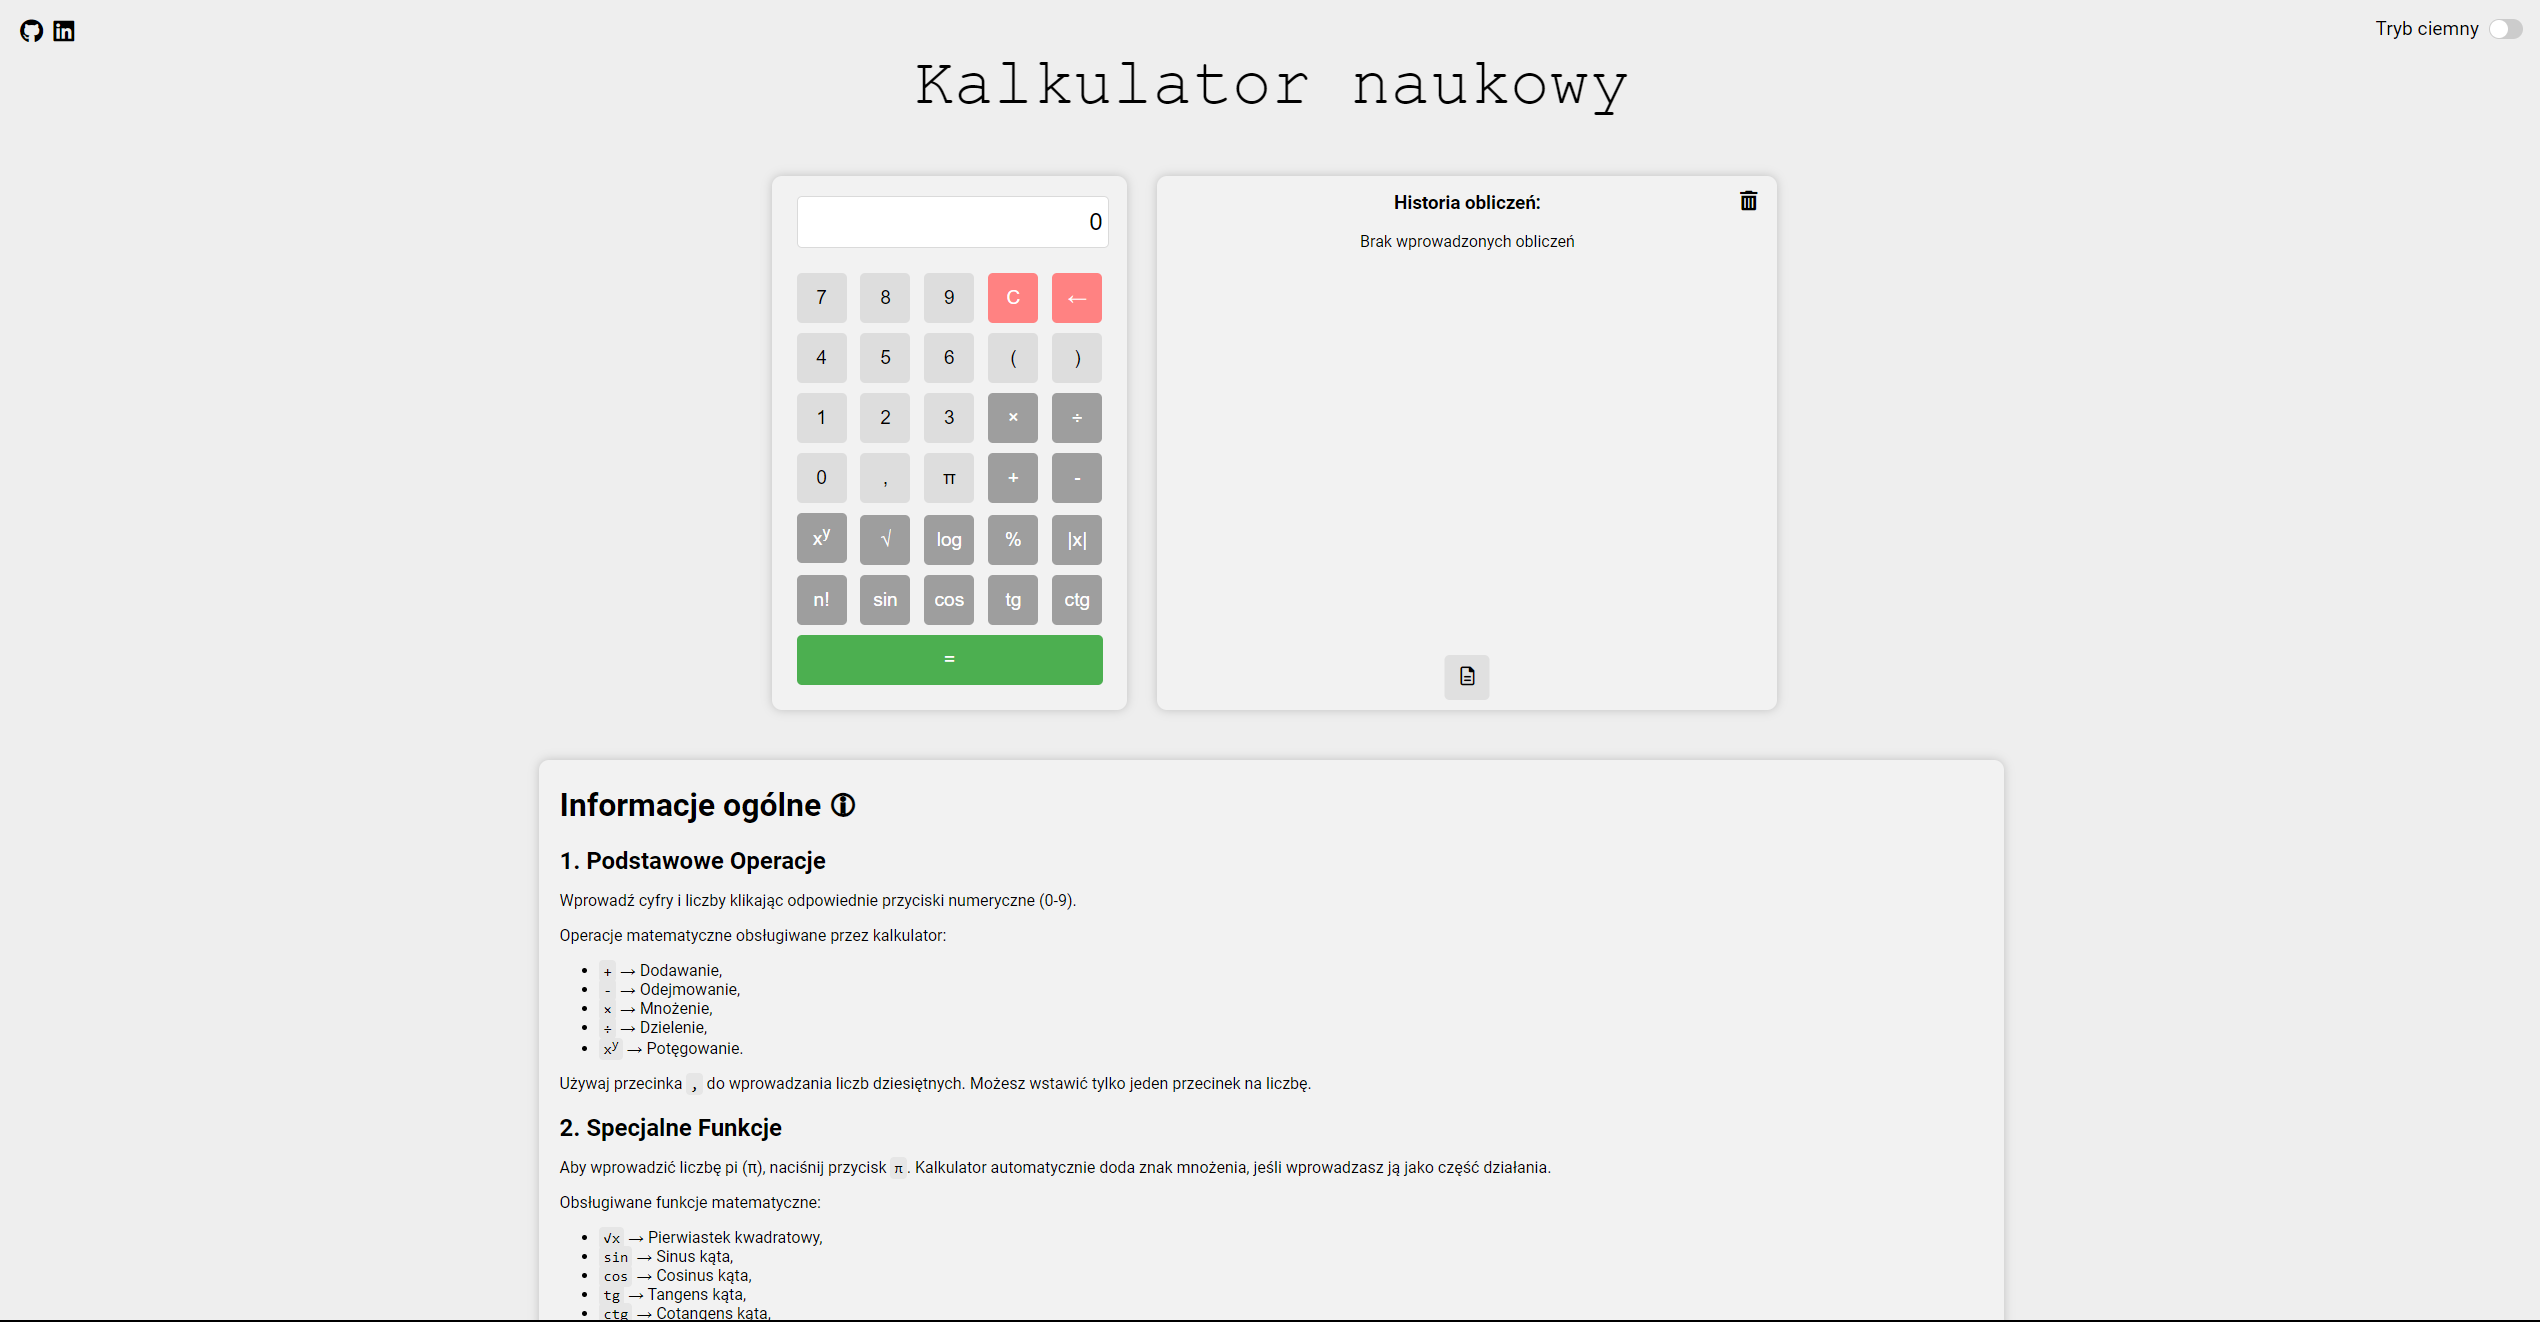
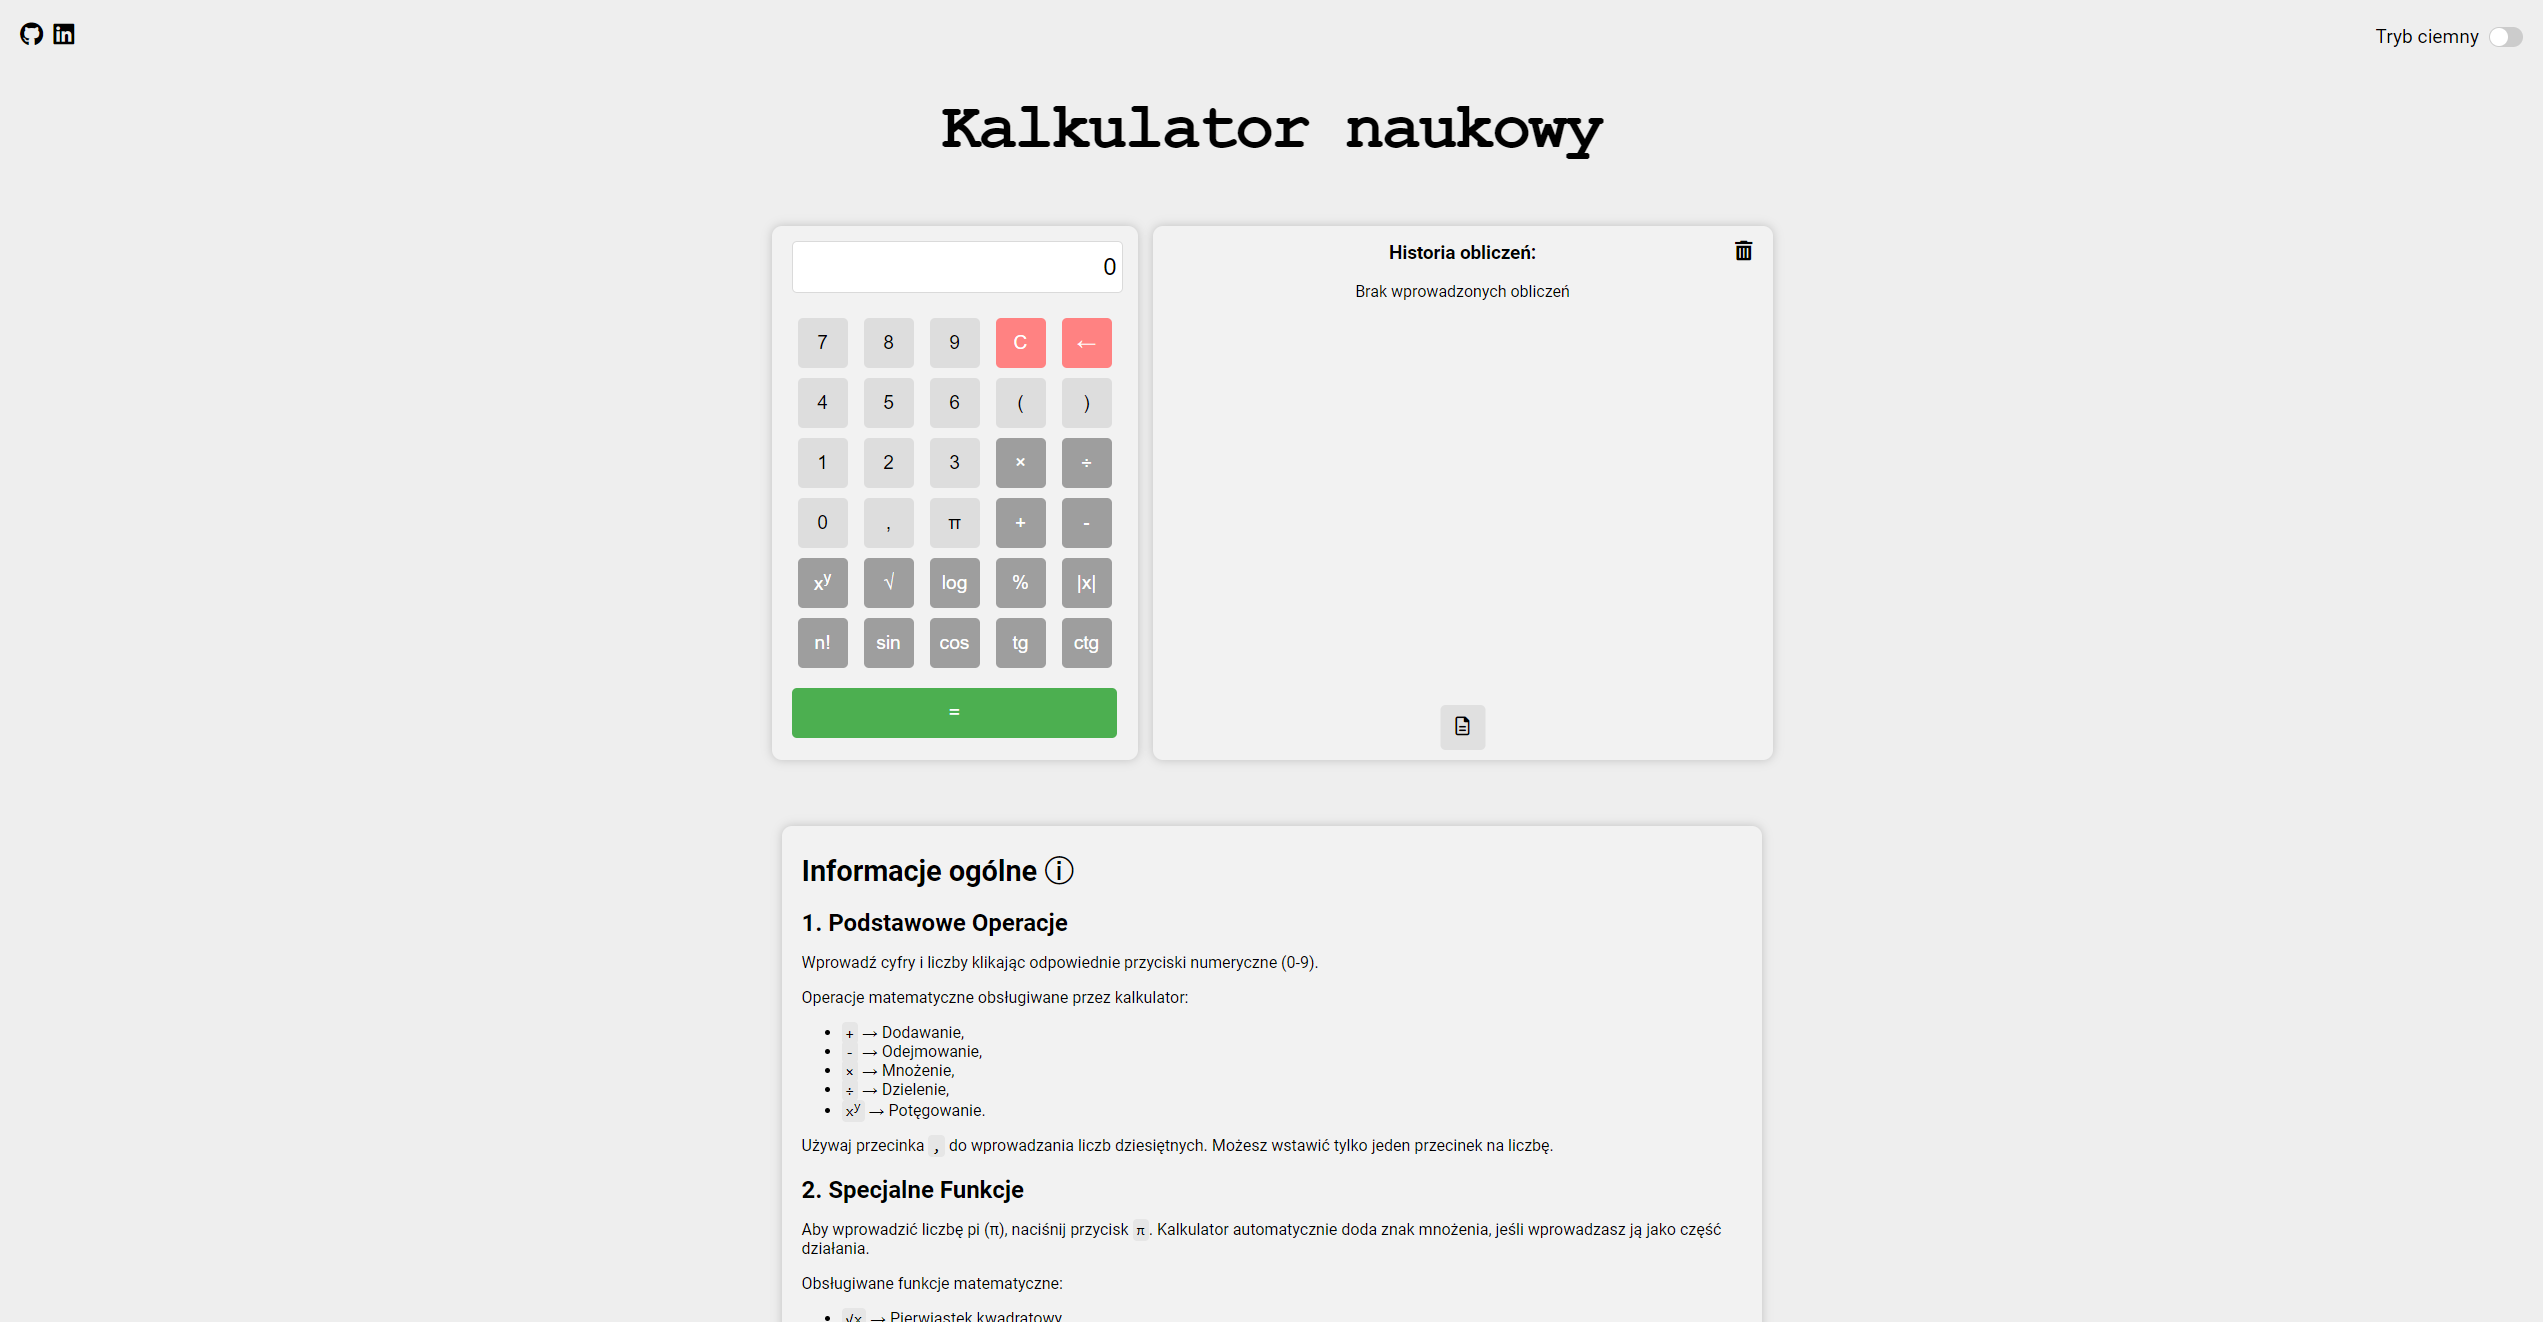
v1.04
Wprowadzono responsywność.

diff --git a/index.html b/index.html
@@ -16,6 +16,8 @@
 <div class="theme-switch">
     <label>
         Tryb ciemny
+    </label>
+    <label>
         <input type="checkbox" id="themeToggle" onclick="toggleTheme()">
         <span class="slider"></span>
     </label>
@@ -32,7 +34,7 @@
 </div>
 
 <div>
-    <p style="font-size: 5vh; line-height: 0.7; font-family: 'Courier New', Courier, monospace; text-align: center;">Kalkulator naukowy</p>
+    <p style="font-weight: 600; letter-spacing: -3px; font-size: 5vh; line-height: 0.9; font-family: 'Courier New', Courier, monospace; text-align: center; margin-top: 100px; margin-left: 20px; margin-right: 20px;">Kalkulator naukowy</p>
 </div>
 <div class="container-vertical">
     <div class="container-horizontal">
@@ -40,7 +42,7 @@
         <div class="calculator">
             <input type="text" id="display" value="0" enabled>
 
-            <div>
+            <div style="display: flex; justify-content: space-evenly;">
                 <button class="button number" onclick="appendNumber('7')">7</button>
                 <button class="button number" onclick="appendNumber('8')">8</button>
                 <button class="button number" onclick="appendNumber('9')">9</button>
@@ -48,7 +50,7 @@
                 <button class="button erase" onclick="deleteLastCharacter()">&#8592;</button>
             </div>
 
-            <div>
+            <div style="display: flex; justify-content: space-evenly;">
                 <button class="button number" onclick="appendNumber('4')">4</button>
                 <button class="button number" onclick="appendNumber('5')">5</button>
                 <button class="button number" onclick="appendNumber('6')">6</button>
@@ -56,7 +58,7 @@
                 <button class="button number" onclick="closeParenthesis()">)</button>
             </div>
 
-            <div>
+            <div style="display: flex; justify-content: space-evenly;">
                 <button class="button number" onclick="appendNumber('1')">1</button>
                 <button class="button number" onclick="appendNumber('2')">2</button>
                 <button class="button number" onclick="appendNumber('3')">3</button>
@@ -64,7 +66,7 @@
                 <button class="button" onclick="appendOperator('/')">&#247;</button>
             </div>
 
-            <div>
+            <div style="display: flex; justify-content: space-evenly;">
                 <button class="button number" onclick="appendNumber('0')">0</button>
                 <button class="button number" onclick="appendNumber(',')">,</button>
                 <button class="button number" onclick="appendPi()">&#960;</button>
@@ -72,7 +74,7 @@
                 <button class="button" onclick="appendOperator('-')">-</button>
             </div>
 
-            <div>
+            <div style="display: flex; justify-content: space-evenly;">
                 <button class="button" onclick="appendOperator('^')">x<sup>y</sup></button>
                 <button class="button" onclick="sqrt()">&#8730;</button>
                 <button class="button" onclick="log()">log</button>
@@ -80,7 +82,7 @@
                 <button class="button" onclick="absolute()">|x|</button>
             </div>
 
-            <div>
+            <div style="display: flex; justify-content: space-evenly;">
                 <button class="button" onclick="factorial()">n!</button>
                 <button class="button" onclick="sin()">sin</button>
                 <button class="button" onclick="cos()">cos</button>
@@ -104,11 +106,9 @@
                 <i class="fas fa-trash-alt clearHistory" title="Usuń historię" style="cursor: pointer;"></i>
             </div>
         </div>
-
-    </div>
-    <!-- Informacje ogólne -->
+        <!-- Informacje ogólne -->
     <div class="instruction" id="instrukcja-obslugi">
-        <h1>Informacje ogólne &#128712;</h1>
+        <p style="text-align: left; font-size: 1.8em; font-weight: 600;">Informacje ogólne ⓘ</p>
     <!-- Punkt 1: Podstawowe Operacje -->
     <div class="section" id="podstawowe-operacje">
         <h2>1. Podstawowe Operacje</h2>
@@ -186,12 +186,10 @@
 <!-- Zmiany -->
 <div class="updates">
     <div class="section">
-        <h1 style="color: #4CAF50;">Aktualizacje &#128505;<p class="version">v. 1.03</p></h1>
+        <h1 style="color: #4CAF50;">Aktualizacje &#10003;<p class="version">v. 1.04</p></h1>
         <h2>W tej wersji kalkulatora zostały wprowadzone następujące poprawki/naprawy:</h2>
         <ul id="newUpdates">
-            <li>Posprzątano w kodzie (Podział plików na <code>script.js</code>, <code>history.js</code>, <code>mathFunctions.js</code> i <code>theme.js</code> dla lepszej organizacji kodu),</li>
-            <li>Małe poprawki stylistyczne,</li>
-            <li>Tryb ciemny od teraz działa w pełni poprawnie,</li>
+            <li>Wprowadzono responsywność strony.</li>
         </ul>
     </div>
 </div>
@@ -200,7 +198,6 @@
         <h1 style="color: #ff4747;">Znane błędy &#78243;</h1>
         <h2>W tej wersji kalkulatora zostały rozpoznane następujące bugi:</h2>
         <ul id="todolist">
-            <li>Responsywność strony nie jest wprowadzona,</li>
             <li>Wprowadzenie wartości bezwględnej przy pomocy klawiatury nie jest możliwe,</li>
             <li>Wartość bezwględna nie działa przy wprowadzeniu dłuższych obliczeń,</li>
             <li>Po wprowadzeniu <code>&#960;</code>, 0 nie znika,</li>
@@ -208,6 +205,7 @@
         </ul>
     </div>
 </div>
+    </div>
 <div class="spacer"></div>
     <div class="wiktor retro glitch" data-text="Wiktor Gołąb 2024">Wiktor Gołąb 2024
         <div class="wiktortext retro">Made with passion and &lt;3!</div>

diff --git a/styles/style.css b/styles/style.css
@@ -24,7 +24,6 @@ code {
     width: 100%;
     max-width: 1000px;
     justify-content: center;
-    margin: 0 auto;
     gap: 1rem;
 }
 
@@ -33,19 +32,23 @@ code {
     grid-template-columns: 1fr;
     justify-items: center;
     align-items: start;
-    width: 70%;
+    padding-left: 5px;
+    padding-right: 5px;
 }
 
 .theme-switch {
+    display: flex;
+    justify-content: center;
+    align-items: center;
+    gap: 10px;
     position: absolute;
-    top: 20px;
+    top: 25px;
     right: 20px;
     font-size: 1.2em;
 }
 
 .theme-switch label {
     display: flex;
-    align-items: center;
 }
 
 .theme-switch input {
@@ -64,7 +67,7 @@ code {
     margin-left: 10px;
     margin-right: 10px;
     margin-bottom: 20px;
-    width: 80%;
+    width: 100%;
 }
 
 .version {
@@ -93,7 +96,6 @@ code {
     background-color: #ccc;
     border-radius: 50px;
     position: relative;
-    margin-left: 10px;
     transition: background-color 0.2s, box-shadow 0.2s;
 }
 
@@ -127,11 +129,11 @@ code {
 
 .calculator {
     background-color: #f2f2f2;
-    padding: 20px;
+    padding: 15px;
     opacity: 0;
     border-radius: 10px;
+    min-width: 336px;
     box-shadow: 0 0 10px rgba(0, 0, 0, 0.2);
-    margin-right: 20px;
     transform: translateY(50px);
     transition: transform 0.5s ease-out, background-color 0.2s, color 0.2s, opacity 0.5s ease-out;
 }
@@ -159,6 +161,8 @@ code {
     font-size: 1.2em;
     cursor: pointer;
     border: none;
+    padding: 0;
+    text-align: center;
     background-color: #9e9e9e;
     border-radius: 5px;
     color: white;
@@ -195,6 +199,7 @@ code {
     background-color: #4CAF50;
     color: white;
     width: 97% !important;
+    margin-top: 15px;
 }
 
 .equals:hover {
@@ -207,6 +212,7 @@ code {
     border-radius: 10px;
     width: 100%;
     min-width: 300px;
+    min-height: 514px;
     height: 100%;
     text-align: center;
     box-shadow: 0 0 10px rgba(0, 0, 0, 0.2);
@@ -268,11 +274,13 @@ code {
     margin-top: 10px;
     font-size: 1.2em;
     cursor: pointer;
+    padding: 0;
     border: none;
     background-color: #e0e0e0;
     border-radius: 5px;
     bottom: 10px;
     left: 50%;
+    color: black;
     transform: translateX(-50%);
     transition: background-color 0.2s, color 0.2s;
 }
@@ -363,6 +371,10 @@ body.dark-mode .history li:hover {
 }
 
 body.dark-mode .clearHistory {
+    color: #f5f5f5;
+}
+
+body.dark-mode .save-history {
     color: #f5f5f5;
 }
 
